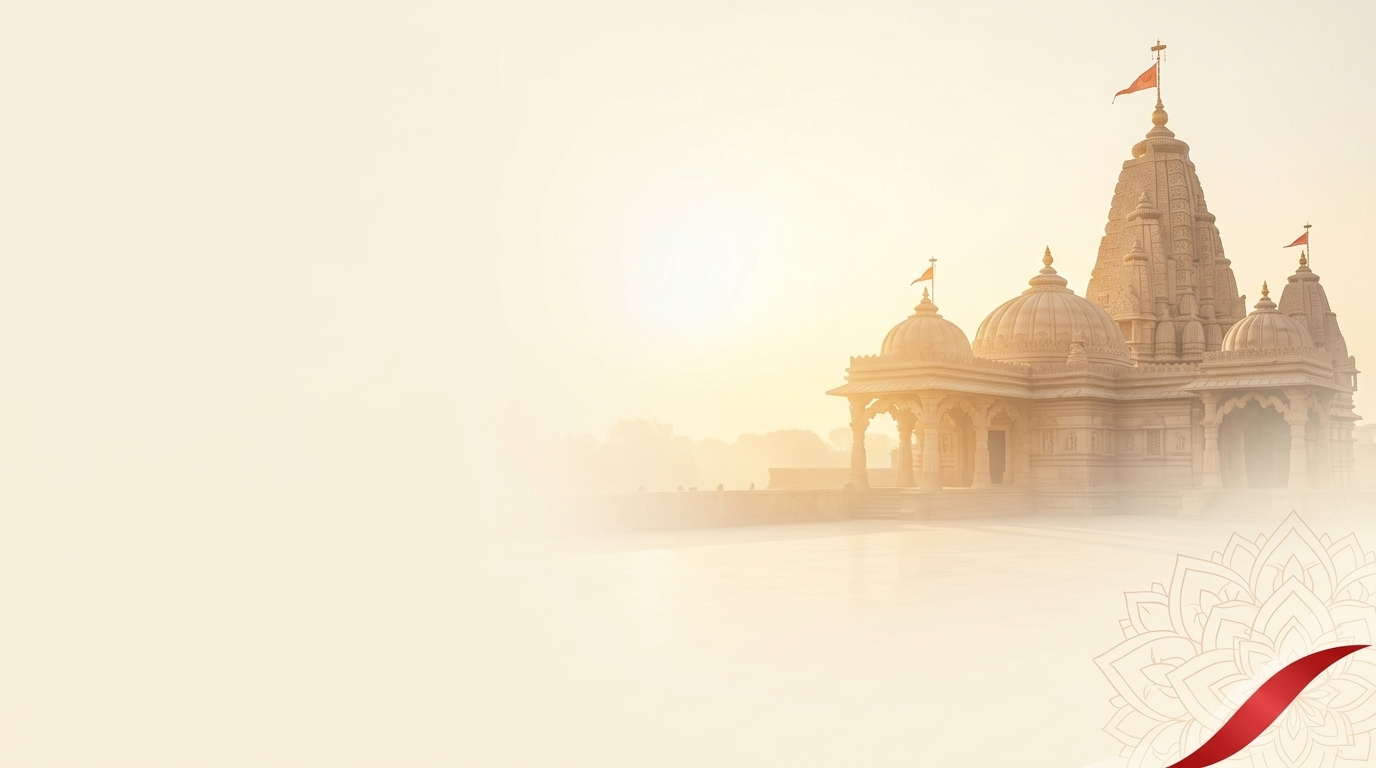
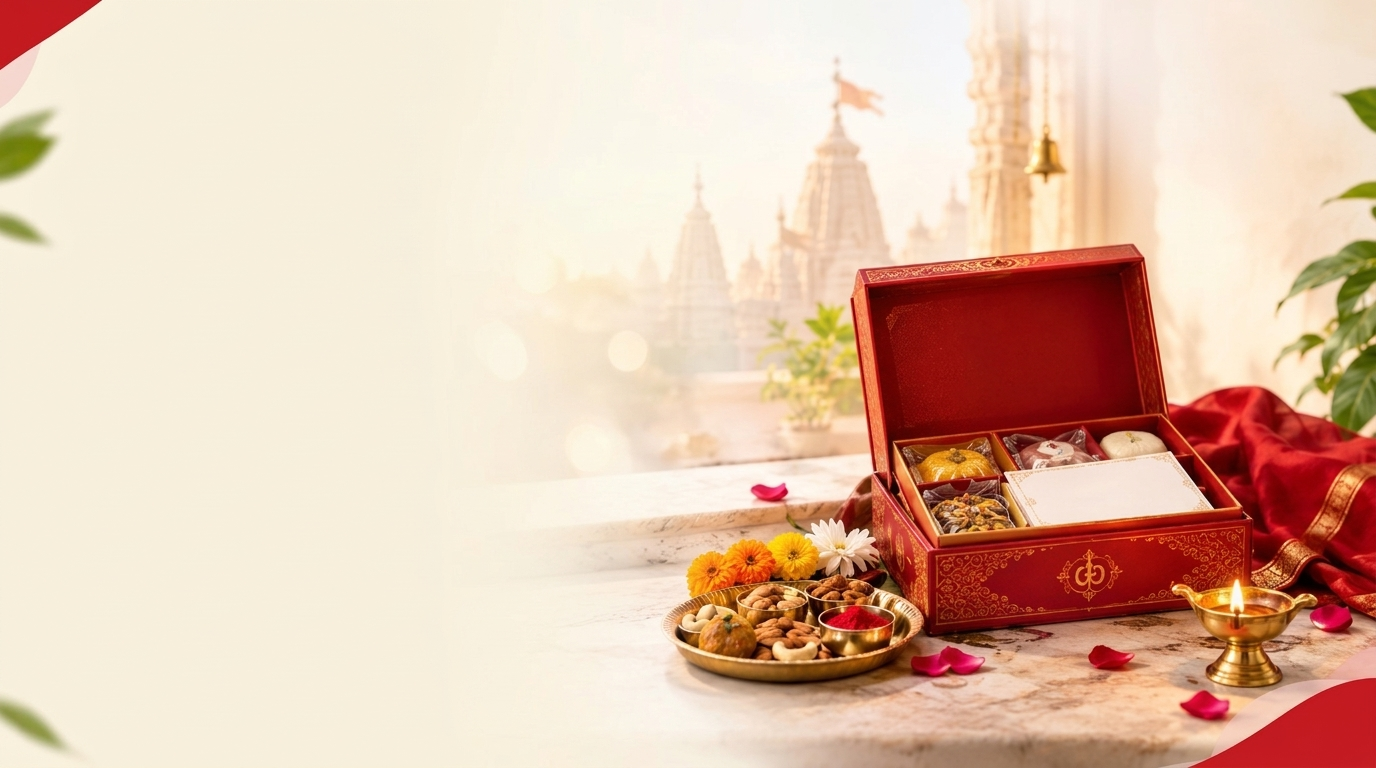
feat: use prasad delivery showcase and temple scene as clean background backdrop

diff --git a/coming-soon.html b/coming-soon.html
@@ -26,7 +26,7 @@
   <link href="https://fonts.googleapis.com/css2?family=Mukta:wght@300;400;500;600;700;800&family=Noto+Sans+Devanagari:wght@400;500;600;700;800;900&family=Noto+Sans+Malayalam:wght@400;500;600;700;800&family=Poppins:wght@400;500;600;700;800&family=Roboto:ital,wght@0,300;0,400;0,500;0,700;0,800;0,900;1,400;1,700&display=swap" rel="stylesheet">
 
   <!-- Stylesheet -->
-  <link rel="stylesheet" href="/css/coming-soon.css?v=12.0">
+  <link rel="stylesheet" href="/css/coming-soon.css?v=13.0">
 </head>
 <body>
 

diff --git a/index.html b/index.html
@@ -26,7 +26,7 @@
   <link href="https://fonts.googleapis.com/css2?family=Mukta:wght@300;400;500;600;700;800&family=Noto+Sans+Devanagari:wght@400;500;600;700;800;900&family=Noto+Sans+Malayalam:wght@400;500;600;700;800&family=Poppins:wght@400;500;600;700;800&family=Roboto:ital,wght@0,300;0,400;0,500;0,700;0,800;0,900;1,400;1,700&display=swap" rel="stylesheet">
 
   <!-- Stylesheet -->
-  <link rel="stylesheet" href="/css/coming-soon.css?v=12.0">
+  <link rel="stylesheet" href="/css/coming-soon.css?v=13.0">
 </head>
 <body>
 

diff --git a/css/coming-soon.css b/css/coming-soon.css
@@ -133,15 +133,15 @@ html, body {
   flex-direction: column;
   align-items: flex-start;
   text-align: left;
-  gap: 0.75rem;
+  gap: 0.65rem;
   width: 100%;
-  max-width: 580px;
+  max-width: 520px;
 }
 
 /* Main Headline matching website's bold Mukta/Poppins typography */
 .site-headline {
   font-family: var(--font-heading);
-  font-size: 3.1rem;
+  font-size: 2.85rem;
   font-weight: 800;
   line-height: 1.15;
   letter-spacing: -0.02em;
